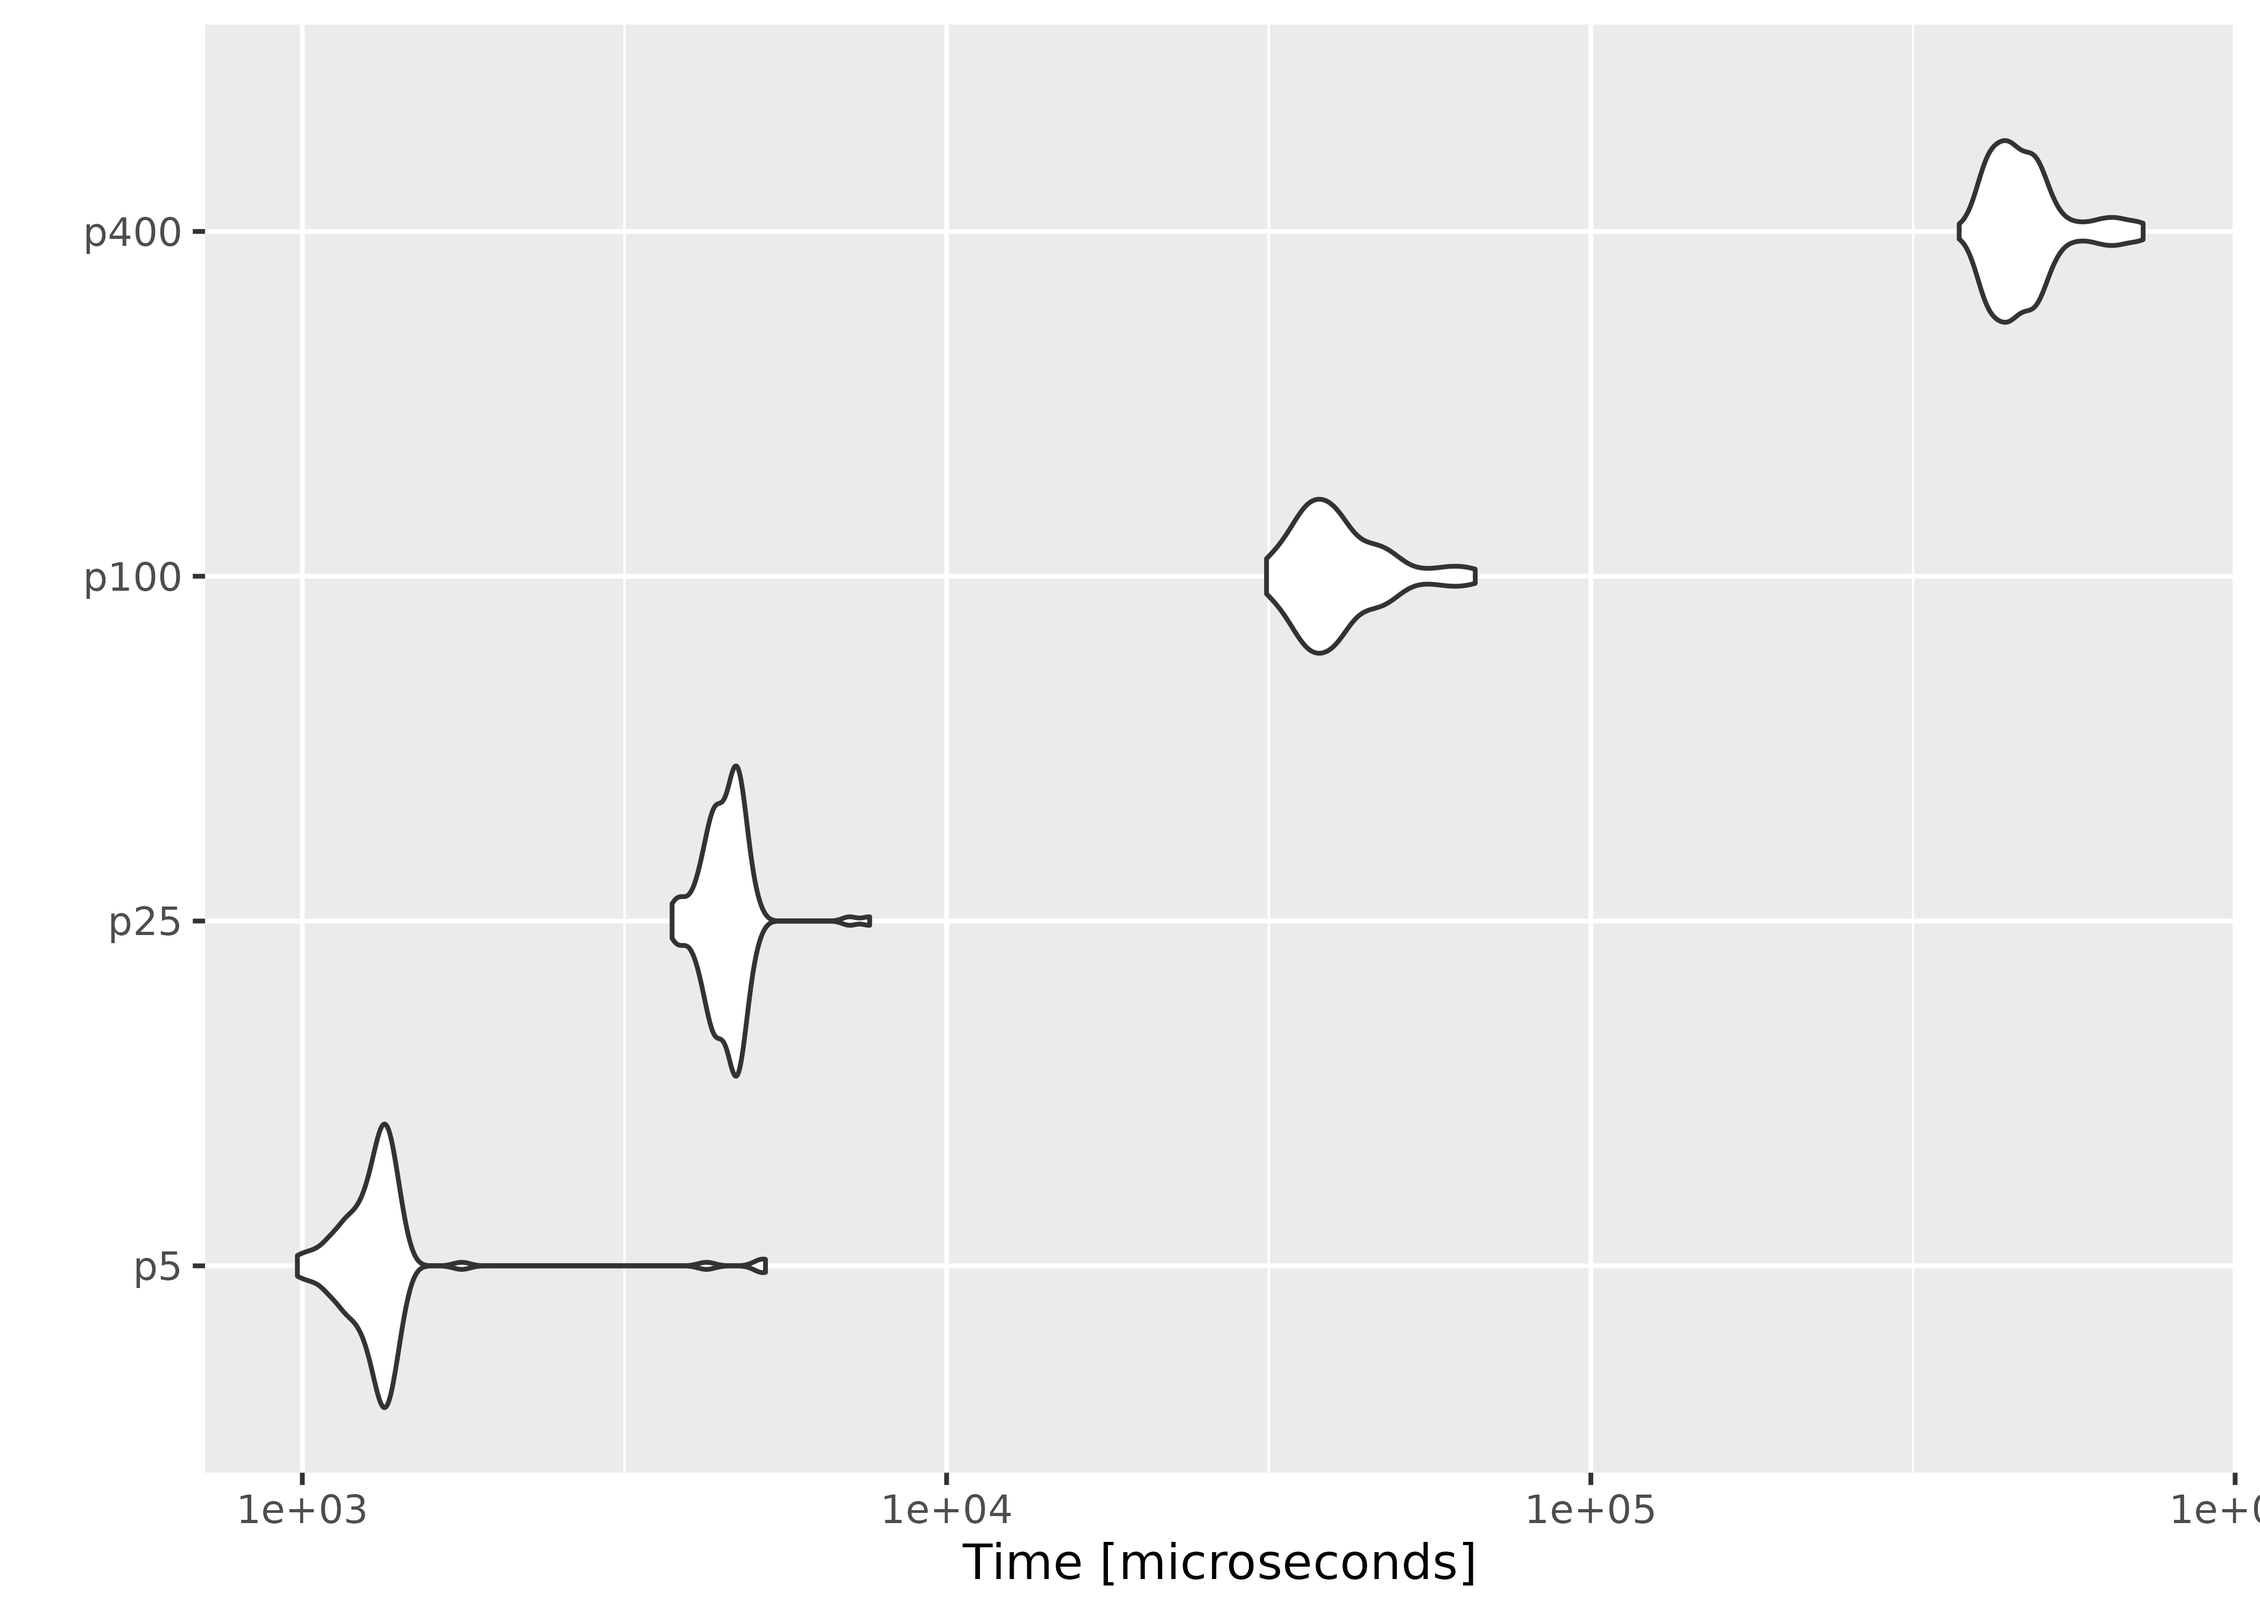
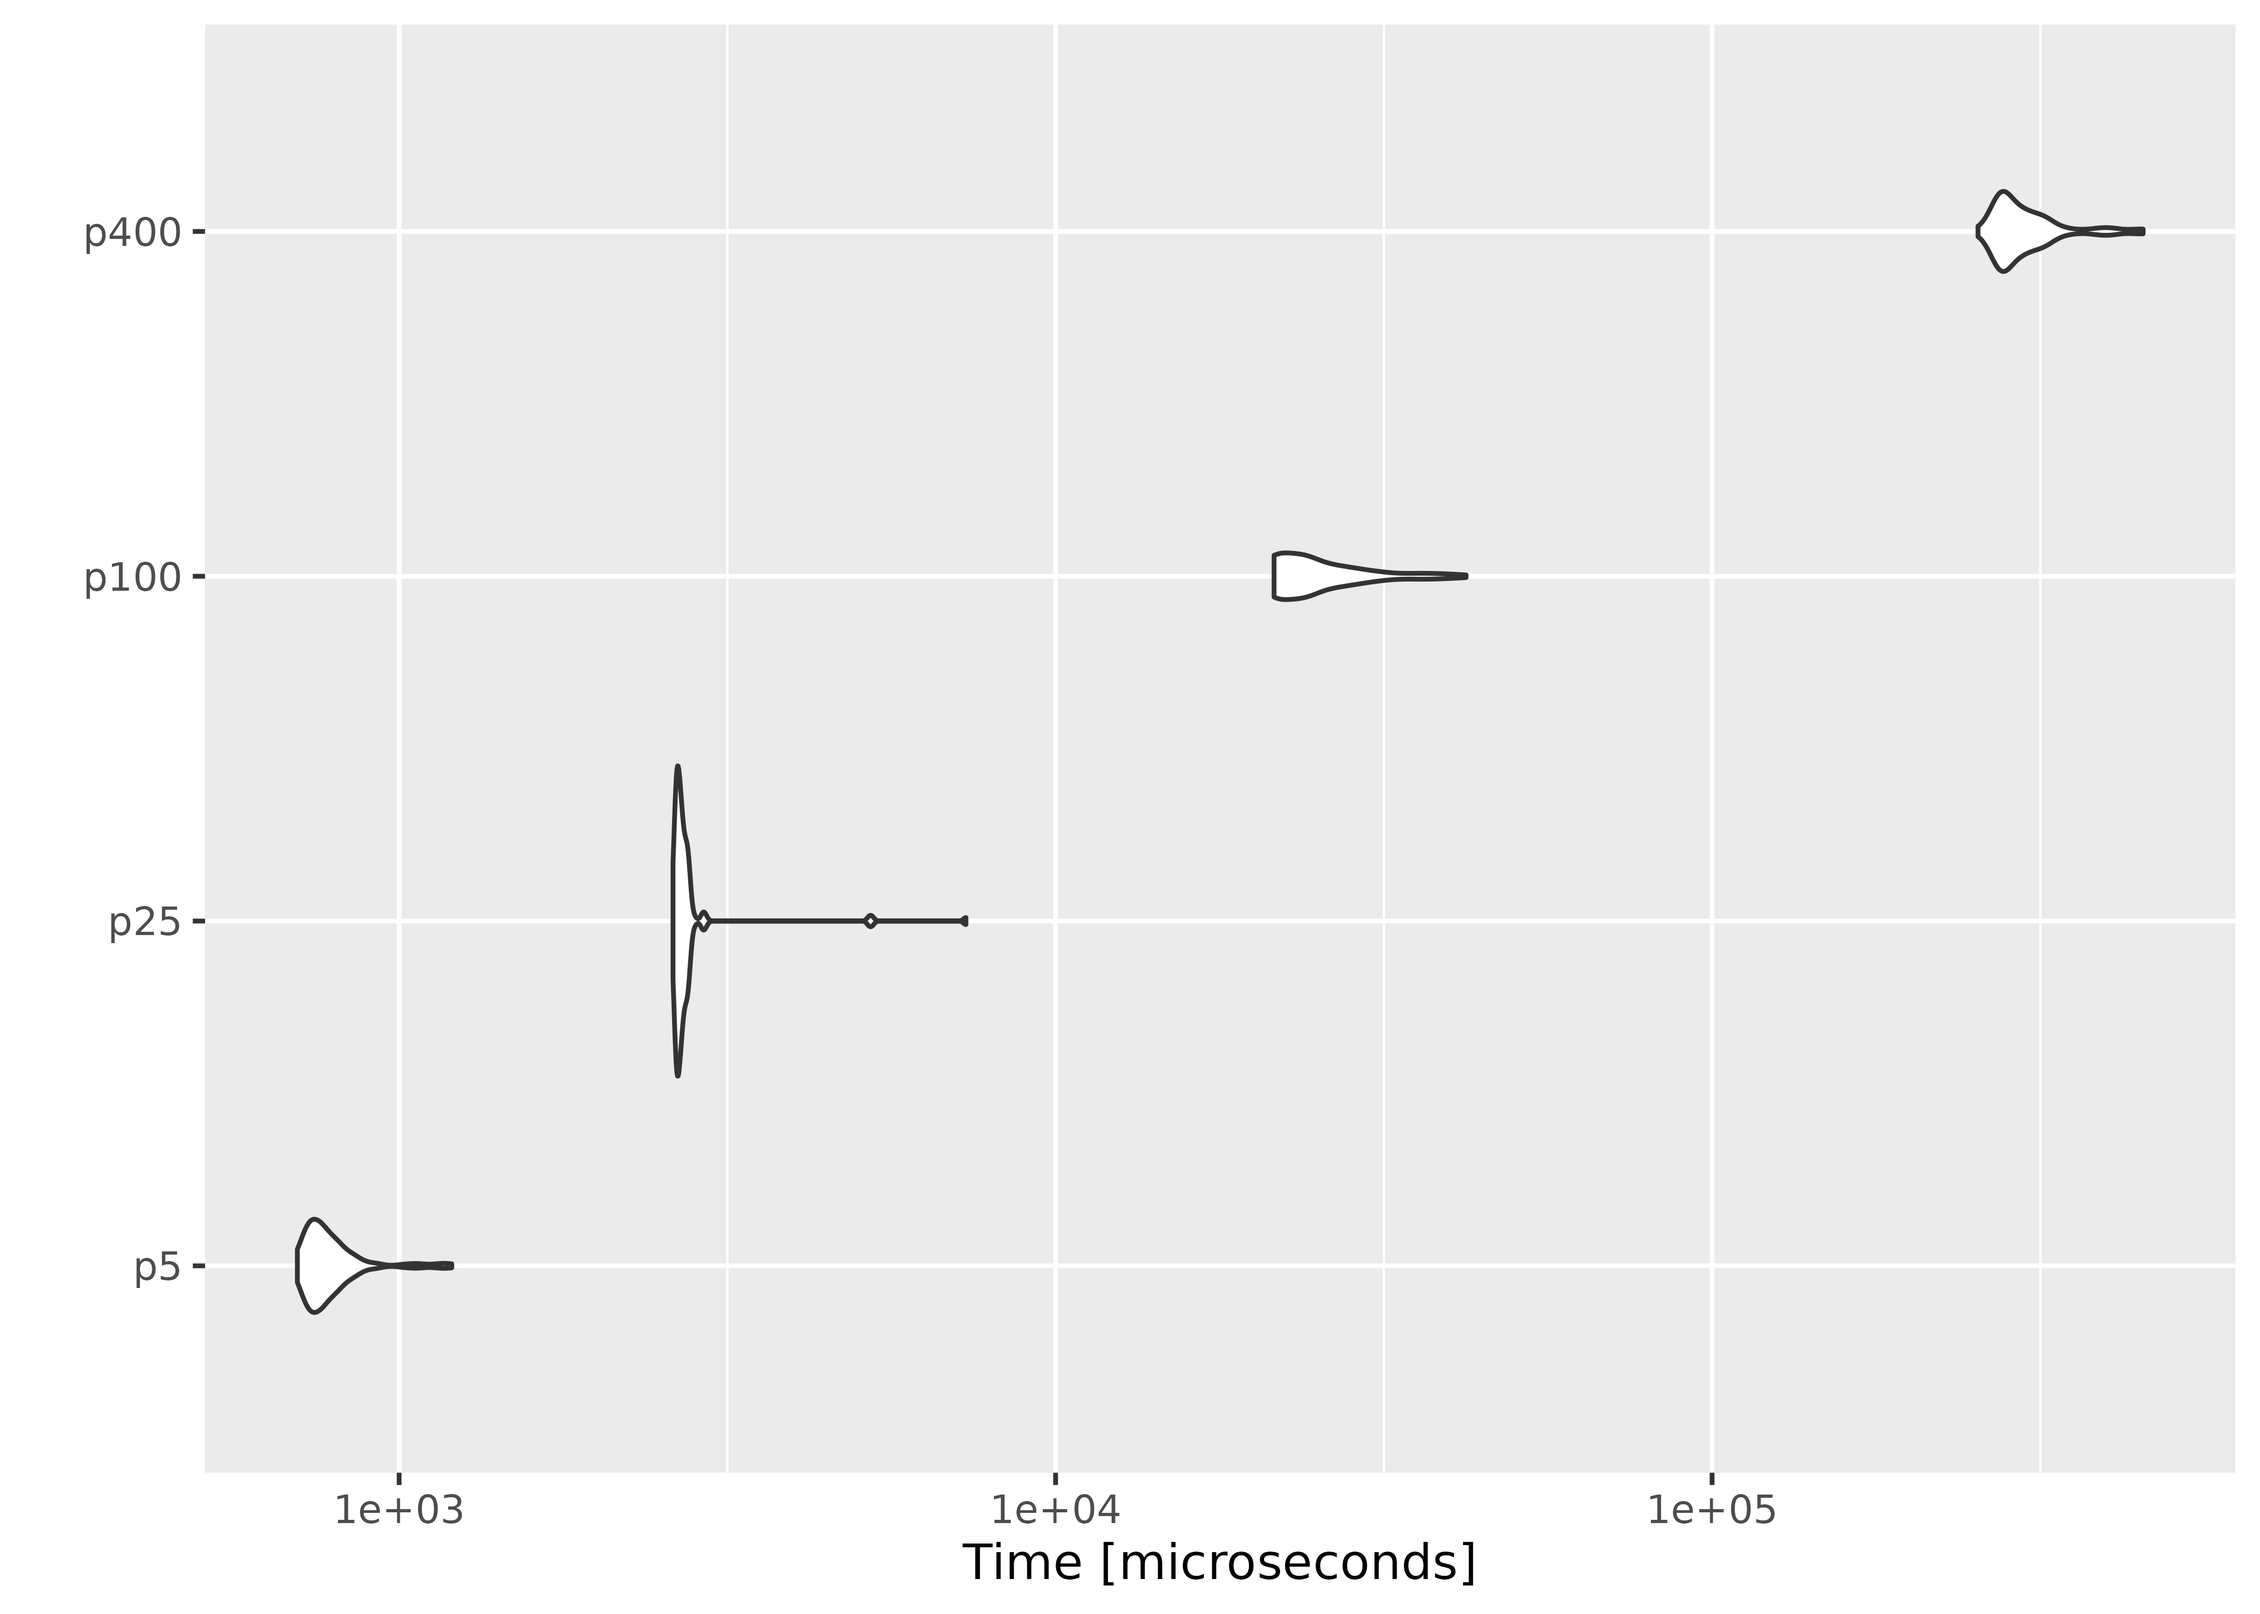
Deploying to gh-pages from @ ropensci/melt@77613ebdf57f854cf004995f0bce2866699b84f0 🚀

diff --git a/articles/performance.html b/articles/performance.html
@@ -137,11 +137,11 @@ parameters increases with the number of observations fixed.</p>
 <div class="sourceCode" id="cb3"><pre class="downlit sourceCode r">
 <code class="sourceCode R"><span><span class="va">result</span></span>
 <span><span class="co">#&gt; Unit: microseconds</span></span>
-<span><span class="co">#&gt;  expr      min       lq       mean    median        uq      max neval</span></span>
-<span><span class="co">#&gt;  n1e2    530.3    706.2    759.144    766.40    823.60    901.4   100</span></span>
-<span><span class="co">#&gt;  n1e3   1512.6   2086.6   2367.917   2283.00   2477.95   6173.5   100</span></span>
-<span><span class="co">#&gt;  n1e4  15530.5  19466.0  22481.663  22805.45  24928.05  30365.3   100</span></span>
-<span><span class="co">#&gt;  n1e5 313542.3 382719.1 447808.048 432266.80 518000.50 610856.2   100</span></span>
+<span><span class="co">#&gt;  expr        min         lq        mean      median         uq        max neval</span></span>
+<span><span class="co">#&gt;  n1e2    439.129    470.132    500.3667    485.9355    525.920    669.939   100</span></span>
+<span><span class="co">#&gt;  n1e3   1140.766   1303.340   1396.2235   1367.7650   1481.381   2291.051   100</span></span>
+<span><span class="co">#&gt;  n1e4  10084.569  11562.623  13490.9441  13921.8065  14641.558  20451.964   100</span></span>
+<span><span class="co">#&gt;  n1e5 158892.638 223035.225 256229.3833 251119.7060 291330.778 346650.934   100</span></span>
 <span><span class="fu"><a href="https://ggplot2.tidyverse.org/reference/autoplot.html" class="external-link">autoplot</a></span><span class="op">(</span><span class="va">result</span><span class="op">)</span></span></code></pre></div>
 <p><img src="performance_files/figure-html/unnamed-chunk-3-1.png" width="100%" style="display: block; margin: auto;"></p>
 </div>
@@ -173,11 +173,11 @@ likelihood at zero vectors of different sizes.</p>
 <div class="sourceCode" id="cb5"><pre class="downlit sourceCode r">
 <code class="sourceCode R"><span><span class="va">result2</span></span>
 <span><span class="co">#&gt; Unit: microseconds</span></span>
-<span><span class="co">#&gt;  expr      min        lq       mean    median        uq      max neval</span></span>
-<span><span class="co">#&gt;    p5    982.4   1216.25   1391.042   1310.35   1360.70   5234.8   100</span></span>
-<span><span class="co">#&gt;   p25   3748.8   4330.75   4573.474   4576.10   4760.80   7596.5   100</span></span>
-<span><span class="co">#&gt;  p100  31374.2  36316.45  41266.779  39269.55  44369.25  66148.0   100</span></span>
-<span><span class="co">#&gt;  p400 372996.4 428834.70 477025.388 454379.25 494673.75 719787.5   100</span></span>
+<span><span class="co">#&gt;  expr        min         lq        mean      median         uq        max neval</span></span>
+<span><span class="co">#&gt;    p5    699.784    733.437    790.5181    764.2045    807.575   1202.792   100</span></span>
+<span><span class="co">#&gt;   p25   2613.232   2650.405   2790.0317   2681.6835   2735.966   7301.500   100</span></span>
+<span><span class="co">#&gt;  p100  21514.545  21727.792  25540.3863  23928.5950  26563.711  42193.642   100</span></span>
+<span><span class="co">#&gt;  p400 254127.222 275595.786 302631.6032 287392.7065 317969.715 453532.569   100</span></span>
 <span><span class="fu"><a href="https://ggplot2.tidyverse.org/reference/autoplot.html" class="external-link">autoplot</a></span><span class="op">(</span><span class="va">result2</span><span class="op">)</span></span></code></pre></div>
 <p><img src="performance_files/figure-html/unnamed-chunk-5-1.png" width="100%" style="display: block; margin: auto;">
 On average, evaluating empirical likelihood with a 100000×10 or 1000×400

diff --git a/authors.html b/authors.html
@@ -92,13 +92,14 @@
 
     <p>Kim E (2023).
 <em>melt: Multiple Empirical Likelihood Tests</em>.
-https://docs.ropensci.org/melt/, https://github.com/ropensci/melt. 
+R package version 1.10.0.1, https://github.com/ropensci/melt, <a href="https://docs.ropensci.org/melt/">https://docs.ropensci.org/melt/</a>. 
 </p>
     <pre>@Manual{,
   title = {melt: Multiple Empirical Likelihood Tests},
   author = {Eunseop Kim},
   year = {2023},
-  note = {https://docs.ropensci.org/melt/, https://github.com/ropensci/melt},
+  note = {R package version 1.10.0.1, https://github.com/ropensci/melt},
+  url = {https://docs.ropensci.org/melt/},
 }</pre>
 
   </div>
